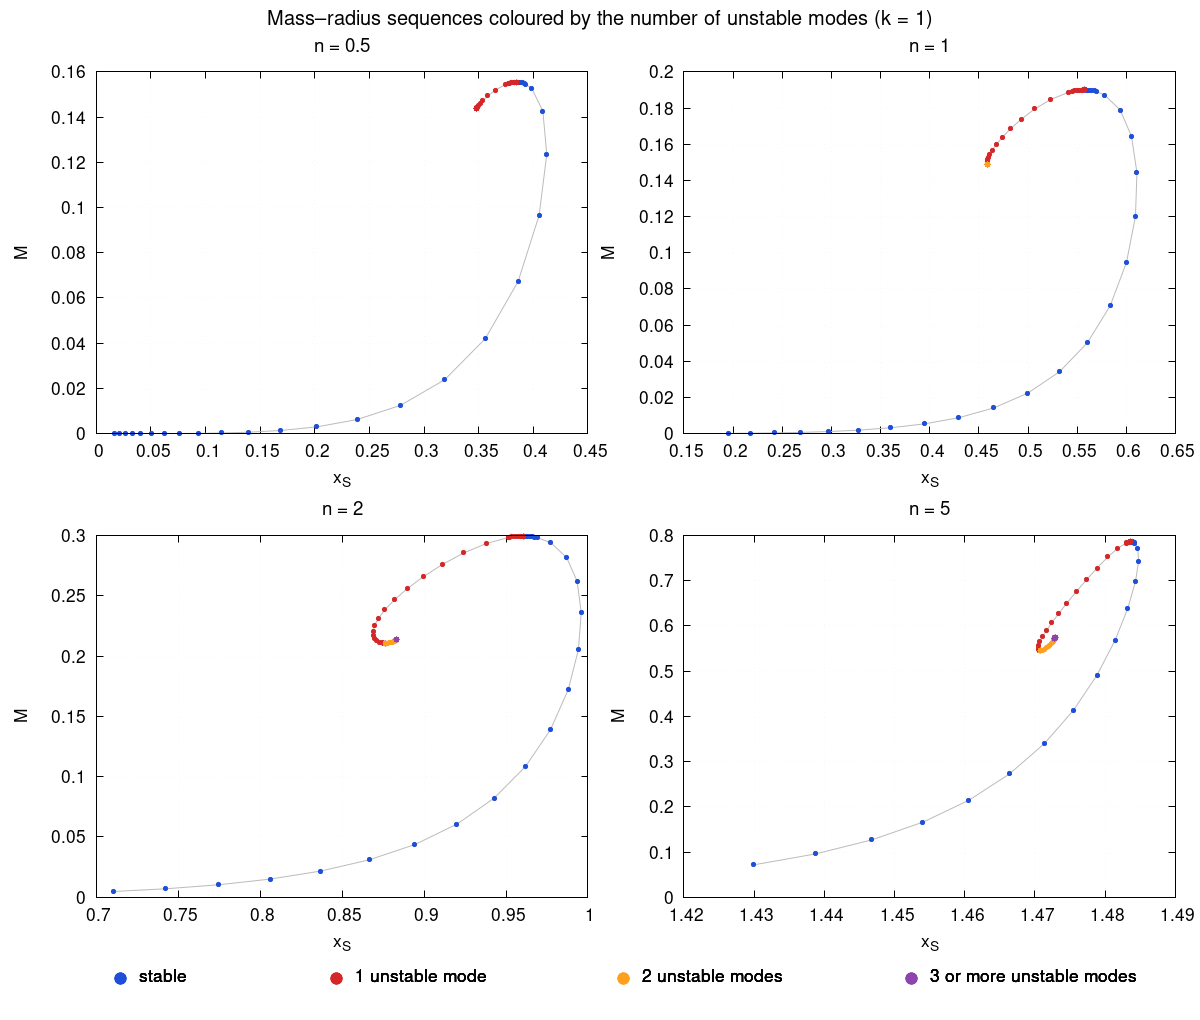
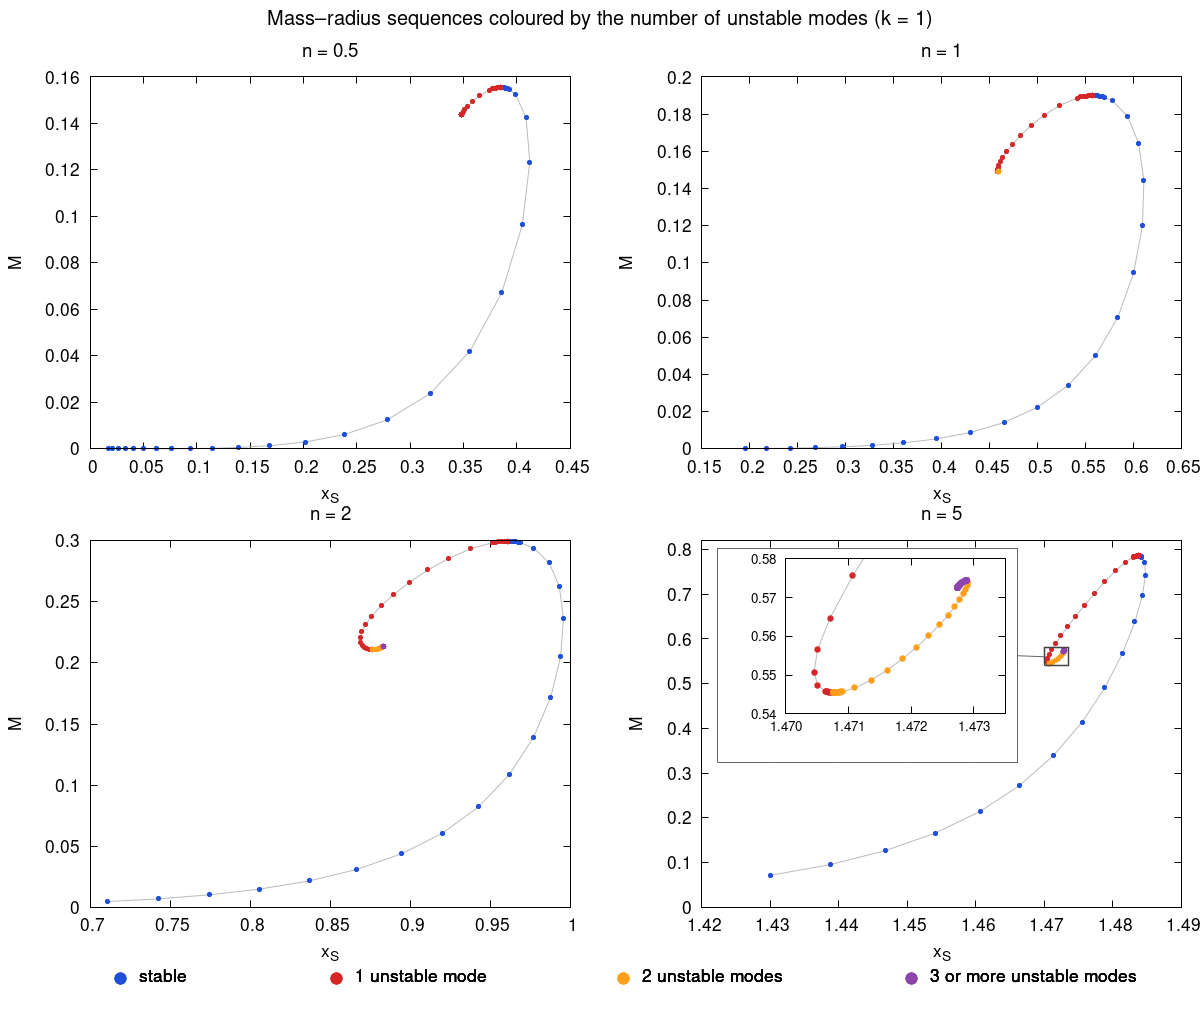
fix: reorganize static AdS index

diff --git a/static-ads/index.html b/static-ads/index.html
@@ -140,7 +140,7 @@
   <svg class="divider" viewBox="0 0 1440 70" preserveAspectRatio="none" aria-hidden="true"><path d="M0,30 C300,0 540,75 800,35 S1200,0 1440,40 V70 H0Z"/></svg>
   <div class="wrap">
     <h2 data-num="03" class="reveal">Solving it with W4</h2>
-    <p class="reveal">
+    <p class="reveal key">
       I solve the whole boundary-value problem at once, as a nonlinear system
       \(F(u)=0\), with the
       <a href="https://arxiv.org/abs/1809.04495" target="_blank">W4 method</a>.
@@ -150,6 +150,27 @@
     <div class="card eq formula reveal">\[ x_{n+1}=x_n+\Delta\tau\,L^{-1}p_n,\qquad
       p_{n+1}=(1-2\Delta\tau)\,p_n-\Delta\tau\,D^{-1}U^{-1}F(x_n) \]</div>
     <p class="reveal">with \(0&lt;\Delta\tau&lt;1\). Near a solution the error eigenvalue is \(1-\Delta\tau\).</p>
+
+    <div class="callout note reveal">
+      <h4>W4 as a damped oscillator</h4>
+      <p>
+        The iteration behaves like a damped oscillator that settles into the
+        solution. Near a solution \(F\approx J\,\delta x\) with \(J=UDL\), so
+        \(D^{-1}U^{-1}F\approx L\,\delta x\). In the variable \(q=L^{-1}p\) the error
+        obeys \(\delta x_{n+1}=\delta x_n+\Delta\tau\,q_n\) and
+        \(q_{n+1}=(1-2\Delta\tau)\,q_n-\Delta\tau\,\delta x_n\). In continuous time
+        this is \(\ddot a+2\dot a+a=0\) for every component \(a\) of the error, a
+        unit mass on a unit spring with friction coefficient 2.
+      </p>
+      <p>
+        That friction is exactly critical damping: the error returns to zero as
+        \((c_1+c_2t)\,e^{-t}\), as fast as possible without overshooting or
+        oscillating. The discrete eigenvalue is \(1-\Delta\tau\), twice. The factors
+        \(L\) and \(U\) cancel the Jacobian, so every component behaves like this
+        same oscillator whatever \(J\) is. The settling belongs to the solver, not
+        to the star: W4 converges to unstable stars as well as stable ones.
+      </p>
+    </div>
 
     <h3 class="reveal">The discretisation</h3>
     <p class="reveal">
@@ -229,8 +250,7 @@
       curve the mass rises to a maximum and then curls back. Both the maximum
       mass and the radius at which it occurs grow with \(n\): from
       \(M_{\max}=0.1555\) at \(x_S=0.3848\) for \(n=0.5\), to \(0.7859\) at
-      \(x_S=1.484\) for \(n=5\). The AdS boundary is at \(x=\pi/2\approx1.571\),
-      so the largest stars nearly fill the space.
+      \(x_S=1.484\) for \(n=5\). The AdS boundary is at \(x=\pi/2\approx1.571\).
     </p>
 
     <div class="tablewrap reveal">
@@ -282,7 +302,7 @@
     <div class="card eq formula reveal">
       \[ \omega^2=\frac{\int_0^{x_S}E\,\big(\Theta Q^2+\beta\,\xi^2\big)\,dx}{\int_0^{x_S}E\,W\,\xi^2\,dx} \]
     </div>
-    <p class="reveal">
+    <p class="reveal key">
       A negative \(\omega^2\) means the mode grows, so the star is unstable. I
       discretise the problem with linear finite elements on the star's own grid.
       That gives a symmetric generalised eigenproblem with tridiagonal matrices.
@@ -293,24 +313,35 @@
 
     <h3 class="reveal">What happens at the surface</h3>
     <p class="reveal">
-      The centre needs \(\xi(0)=0\), but the surface is where the density
-      vanishes, and a boundary condition there needs care. Near the surface, with
-      \(s=x_S-x\), the indicial equation is \(\alpha(\alpha+n)=0\). So there are
-      two branches, \(\xi\sim\text{const}\) and \(\xi\sim s^{-n}\). Two panels
-      show why only the first one is physical.
+      The master equation is second order, so it needs one condition at each
+      end. At the centre it is \(\xi(0)=0\). The surface is harder, because
+      there the equation is singular: the density vanishes, so
+      \(\Theta\sim s^{n+1}\to0\) with \(s=x_S-x\), and the coefficient of the
+      highest derivative goes to zero. Near a singular point like this the
+      solutions are power laws, \(\xi\sim s^\alpha\), and the exponents satisfy
+      \(\alpha(\alpha+n)=0\).
+    </p>
+    <p class="reveal">
+      That leaves two behaviours. The regular branch, \(\alpha=0\), tends to a
+      finite value at the surface. The singular branch, \(\alpha=-n\), diverges
+      there. A mode needs finite energy, because \(\omega^2\) is a ratio of
+      energy integrals (the variational formula above), so the energy should
+      decide between them. The two panels below check this for \(n=3\).
     </p>
 
     <figure class="figure plate reveal">
-      <img class="plot" src="img/surface_branches.png" width="1200" height="470" alt="Left: displacement of the fundamental mode near the surface, finite for the physical branch and diverging for the excluded one. Right: accumulated energy, converging for the physical branch and diverging for the excluded one">
+      <img class="plot" src="img/surface_branches.png" width="1200" height="470" alt="Left: displacement of the fundamental mode near the surface, finite for the regular branch and diverging for the singular one. Right: accumulated energy, converging for the regular branch and diverging for the singular one">
       <figcaption>The fundamental mode of the \(n=3\), \(\rho_c=0.5\) star (\(\omega^2=-0.457\)) near the surface. Left: displacement. Right: accumulated energy.</figcaption>
     </figure>
-    <p class="reveal">
-      The physical branch stays finite as \(s\to0\), while the other grows like
-      \(s^{-n}\). Its energy also diverges, which is what rules it out. The finite
-      branch gives \(\Delta p=-\Theta Q\to0\) automatically, so the surface is
-      free to oscillate. The <a href="derivation.html">technical notes</a> have the
-      full six-panel version, which also confirms that \(h\), \(\Theta\) and
-      \(\Delta p\) vanish as the expected powers of \(s\).
+    <p class="reveal key">
+      The regular branch stays finite and its energy converges. The singular
+      branch grows like \(s^{-n}\) and its energy diverges, so it is discarded.
+      The regular branch also gives \(\Delta p=-\Theta Q\to0\) automatically, so
+      the pressure perturbation vanishes at the surface without imposing
+      anything, and \(\xi\) itself is free there: the surface oscillates. The
+      <a href="derivation.html">technical notes</a> have the full six-panel
+      version, which also confirms that \(h\), \(\Theta\) and \(\Delta p\) vanish
+      as the expected powers of \(s\).
     </p>
   </div>
 </section>
@@ -356,13 +387,14 @@
     </p>
 
     <figure class="figure plate reveal">
-      <img class="plot" src="img/modes_n5_spectrum.png" width="1100" height="820" alt="For n=5, k=1: the mass against central density, with four extrema marked, above the four lowest omega squared values against central density, each crossing zero at one of the extrema">
-      <figcaption>\(n=5\), \(k=1\), scanned up to \(\rho_c=10^7\). Top: the mass, with its four extrema marked. Bottom: the four lowest \(\omega_i^2\).</figcaption>
+      <img class="plot" src="img/modes_n5_spectrum.png" width="1300" height="860" alt="For n=5, k=1: the mass against central density, with four extrema marked, above the four lowest omega squared against central density. Each curve passes from the positive, stable region into a shaded negative, unstable region at a ringed point under one of the extrema">
+      <figcaption>\(n=5\), \(k=1\), scanned up to \(\rho_c=10^7\). Top: the mass, with its four extrema marked. Bottom: the four lowest \(\omega_i^2\), on an axis that is linear near zero and logarithmic beyond \(\pm0.01\). The shading is \(\omega^2&lt;0\) and the rings mark the sign changes.</figcaption>
     </figure>
 
-    <p class="reveal">
+    <p class="reveal key">
       Read the figure from left to right. At small \(\rho_c\) all four
-      eigenvalues are positive, so the star is stable. The lowest one crosses zero at \(\rho_c=0.2499\), exactly where \(M(\rho_c)\) peaks. A zero mode is a static
+      eigenvalues are positive, so the star is stable. Each curve later drops into the
+      shaded unstable region at a ringed point. The lowest one crosses zero at \(\rho_c=0.2499\), exactly where \(M(\rho_c)\) peaks. A zero mode is a static
       perturbation, a neighbouring equilibrium, and in a one-parameter family
       those exist where the mass is extremal. After the crossing \(\omega_0^2\)
       keeps falling and settles near \(-1.77\). The pattern then repeats: each
@@ -384,20 +416,6 @@
         I have not computed them.
       </p>
     </div>
-
-    <h3 class="reveal">The unstable modes</h3>
-    <figure class="figure plate reveal">
-      <img class="plot" src="img/modes_n5_eigenfunctions.png" width="1100" height="470" alt="The four lowest eigenfunctions for two n=5 stars, with central densities 94 and ten million, unstable modes dashed">
-      <figcaption>The four lowest eigenfunctions of two \(n=5\) stars, normalised to a peak of 1. Unstable modes are dashed.</figcaption>
-    </figure>
-    <p class="reveal">
-      At \(\rho_c=94\) the two lowest modes are unstable, and at
-      \(\rho_c=10^7\) all four are. The unstable ones are always the lowest, in
-      order, as the ladder requires, and the node count still equals the mode
-      number. Unlike in the stable star above, the displacement is no longer
-      largest at the surface, and at large \(\rho_c\) the nodes of the higher
-      modes crowd into the inner part of the star.
-    </p>
   </div>
 </section>
 
@@ -468,8 +486,8 @@
       the range scanned.
     </p>
     <figure class="figure plate reveal">
-      <img class="plot" src="img/families_by_unstable_modes.png" width="1200" height="1020" alt="Mass against surface radius for n equal to 0.5, 1, 2 and 5, with points coloured blue for stable stars, red for one unstable mode, orange for two and purple for three or more">
-      <figcaption>Mass against surface radius, \(k=1\). Blue: stable. Red and orange: one and two unstable modes. Purple: three or more.</figcaption>
+      <img class="plot" src="img/families_by_unstable_modes.png" width="1200" height="1020" alt="Mass against surface radius for n equal to 0.5, 1, 2 and 5, with points coloured blue for stable stars, red for one unstable mode, orange for two and purple for three or more, and a zoomed inset of the end of the n equal 5 spiral">
+      <figcaption>Mass against surface radius, \(k=1\). Blue: stable. Red and orange: one and two unstable modes. Purple: three or more. Inset: the end of the \(n=5\) spiral.</figcaption>
     </figure>
   </div>
 </section>

diff --git a/post.css b/post.css
@@ -219,3 +219,7 @@
   .figure.plate figcaption { position: relative; z-index: 1; margin-top: 1.4em; }
 
   .wrap > h3:first-child { margin-top: 0; }
+
+  /* key statements: a quiet accent bar and tint, lighter than a callout */
+  p.key { border-left: 3px solid var(--accent); padding: .5em 1em .5em 1.1em; margin: 1.4em 0;
+    background: linear-gradient(90deg, var(--badge), transparent 85%); border-radius: 0 10px 10px 0; color: var(--strong); }
